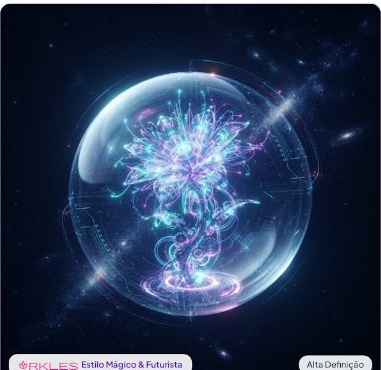
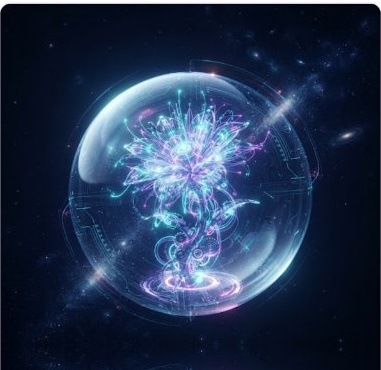
fix(image): remove baked-in badge from challenge image to prevent overlapping text

Changed region(s): [[0.0, 0.9216, 0.6352, 1.0], [0.7795, 0.9514, 0.9816, 1.0]]

diff --git a/game/templates/game/operator_login.html b/game/templates/game/operator_login.html
@@ -1,6 +1,7 @@
 {% load static %}
 <!DOCTYPE html>
 <html lang="pt-br">
+
 <head>
     <meta charset="UTF-8">
     <meta name="viewport" content="width=device-width, initial-scale=1.0">
@@ -8,7 +9,8 @@
     <!-- Google Fonts: Plus Jakarta Sans -->
     <link rel="preconnect" href="https://fonts.googleapis.com">
     <link rel="preconnect" href="https://fonts.gstatic.com" crossorigin>
-    <link href="https://fonts.googleapis.com/css2?family=Plus+Jakarta+Sans:wght@400;500;600;700;800;900&display=swap" rel="stylesheet">
+    <link href="https://fonts.googleapis.com/css2?family=Plus+Jakarta+Sans:wght@400;500;600;700;800;900&display=swap"
+        rel="stylesheet">
     <!-- Tailwind CSS CDN -->
     <script src="https://cdn.tailwindcss.com"></script>
     <script>
@@ -34,24 +36,29 @@
         body {
             font-family: 'Plus Jakarta Sans', sans-serif;
             background-color: #FAF7FE;
-            background-image: 
+            background-image:
                 linear-gradient(to right, rgba(147, 51, 234, 0.12) 1.5px, transparent 1.5px),
                 linear-gradient(to bottom, rgba(147, 51, 234, 0.12) 1.5px, transparent 1.5px);
             background-size: 30px 30px;
         }
     </style>
 </head>
-<body class="min-h-screen flex flex-col items-center justify-center p-4 selection:bg-[#FEBE01] selection:text-[#1E0B36]">
+
+<body
+    class="min-h-screen flex flex-col items-center justify-center p-4 selection:bg-[#FEBE01] selection:text-[#1E0B36]">
 
     <div class="max-w-md w-full bg-white rounded-3xl p-8 border-2 border-[#1E0B36] shadow-neo-pop space-y-6">
-        
+
         <!-- Logo e Cabeçalho -->
         <div class="text-center space-y-2">
-            <div class="w-16 h-16 rounded-2xl bg-[#1E0B36] border-2 border-[#FEBE01] p-2 mx-auto shadow-neo-pop-sm flex items-center justify-center">
-                <img src="{% static 'game/img/robo_mascote.svg' %}" alt="Robô Mascote" class="w-full h-full object-contain">
+            <div
+                class="w-16 h-16 rounded-2xl bg-[#1E0B36] border-2 border-[#FEBE01] p-2 mx-auto shadow-neo-pop-sm flex items-center justify-center">
+                <img src="{% static 'game/img/robo_mascote.svg' %}" alt="Robô Mascote"
+                    class="w-full h-full object-contain">
             </div>
             <div class="pt-1">
-                <span class="bg-[#FEBE01] text-[#1E0B36] font-black uppercase text-[10px] px-2.5 py-0.5 rounded-md border border-[#1E0B36]">
+                <span
+                    class="bg-[#FEBE01] text-[#1E0B36] font-black uppercase text-[10px] px-2.5 py-0.5 rounded-md border border-[#1E0B36]">
                     ACESSO ADMINISTRATIVO
                 </span>
                 <h1 class="text-2xl font-black text-[#1E0B36] tracking-tight mt-1.5">Painel da Equipe Mermãs</h1>
@@ -61,50 +68,39 @@
 
         <!-- Mensagens de Alerta -->
         {% if messages %}
-            <div class="space-y-2">
-                {% for message in messages %}
-                    <div class="p-3 rounded-2xl text-xs font-black border-2 border-[#1E0B36] shadow-neo-pop-sm {% if message.tags == 'error' %}bg-rose-100 text-rose-950{% else %}bg-purple-100 text-purple-950{% endif %}">
-                        {{ message }}
-                    </div>
-                {% endfor %}
+        <div class="space-y-2">
+            {% for message in messages %}
+            <div
+                class="p-3 rounded-2xl text-xs font-black border-2 border-[#1E0B36] shadow-neo-pop-sm {% if message.tags == 'error' %}bg-rose-100 text-rose-950{% else %}bg-purple-100 text-purple-950{% endif %}">
+                {{ message }}
             </div>
+            {% endfor %}
+        </div>
         {% endif %}
 
         <!-- Formulário de Login -->
         <form method="POST" action="{% url 'game:operator_login' %}" class="space-y-4">
             {% csrf_token %}
             <div>
-                <label for="username" class="text-[11px] uppercase tracking-wider text-[#1E0B36] font-black block mb-1.5">
+                <label for="username"
+                    class="text-[11px] uppercase tracking-wider text-[#1E0B36] font-black block mb-1.5">
                     Usuário Operador
                 </label>
-                <input 
-                    type="text" 
-                    id="username" 
-                    name="username" 
-                    required 
-                    placeholder="operador"
-                    class="w-full px-4 py-3 rounded-2xl border-2 border-slate-300 text-sm font-bold text-slate-900 focus:outline-none focus:border-[#7C3AED] bg-purple-50/20"
-                >
+                <input type="text" id="username" name="username" required placeholder="operador"
+                    class="w-full px-4 py-3 rounded-2xl border-2 border-slate-300 text-sm font-bold text-slate-900 focus:outline-none focus:border-[#7C3AED] bg-purple-50/20">
             </div>
 
             <div>
-                <label for="password" class="text-[11px] uppercase tracking-wider text-[#1E0B36] font-black block mb-1.5">
+                <label for="password"
+                    class="text-[11px] uppercase tracking-wider text-[#1E0B36] font-black block mb-1.5">
                     Senha de Acesso
                 </label>
-                <input 
-                    type="password" 
-                    id="password" 
-                    name="password" 
-                    required 
-                    placeholder="••••••••"
-                    class="w-full px-4 py-3 rounded-2xl border-2 border-slate-300 text-sm font-bold text-slate-900 focus:outline-none focus:border-[#7C3AED] bg-purple-50/20"
-                >
+                <input type="password" id="password" name="password" required placeholder="••••••••"
+                    class="w-full px-4 py-3 rounded-2xl border-2 border-slate-300 text-sm font-bold text-slate-900 focus:outline-none focus:border-[#7C3AED] bg-purple-50/20">
             </div>
 
-            <button 
-                type="submit" 
-                class="w-full bg-gradient-to-r from-[#6D28D9] via-[#C026D3] to-[#EC4899] text-white font-black py-4 px-6 rounded-2xl border-2 border-[#1E0B36] shadow-neo-pop hover:shadow-neo-pop-sm hover:translate-y-0.5 active:translate-y-1 transition flex items-center justify-center gap-2 text-sm cursor-pointer"
-            >
+            <button type="submit"
+                class="w-full bg-gradient-to-r from-[#6D28D9] via-[#C026D3] to-[#EC4899] text-white font-black py-4 px-6 rounded-2xl border-2 border-[#1E0B36] shadow-neo-pop hover:shadow-neo-pop-sm hover:translate-y-0.5 active:translate-y-1 transition flex items-center justify-center gap-2 text-sm cursor-pointer">
                 <span>Entrar no Painel do Estande</span>
                 <span>→</span>
             </button>
@@ -117,4 +113,5 @@
         </div>
     </div>
 </body>
+
 </html>
